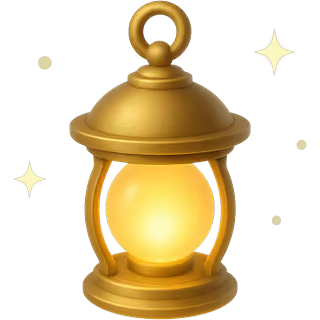
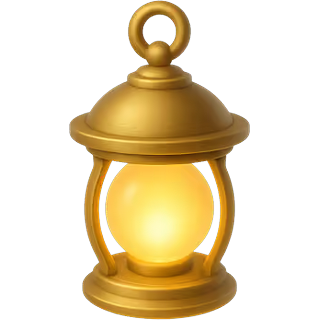
Add the Maaike version with photo cards for local use, and use the new lantern picture.

diff --git a/src/components/Cards.jsx b/src/components/Cards.jsx
@@ -1,5 +1,5 @@
 import { CF_TEXT, ROYAL_TEXT } from '../engine/data.js';
-import { classicCardFile, useCounters, useLook } from '../lib/look.js';
+import { classicCardFile, maaikePhoto, useCounters, useLook } from '../lib/look.js';
 import { centrePicture, cfPicture } from '../lib/cardTypes.js';
 import { PAL, Gem, Crown, AbilityIcon, Mini } from './Art.jsx';
 
@@ -58,17 +58,19 @@ export function JewelCard({ card, onClick, selected, afford, look: forced }) {
   const wild = card.bonus === 'wild';
   const kind = wild ? 'wild' : card.bonus;
   const abil = card.ability;
-  const centre = card.bonus === 'wild' ? '/modern/icons/any-color-gem.png' : centrePicture(card); // the rainbow bug stands in for wild cards
+  const photo = look === 'maaike' ? maaikePhoto(card) : null;
+  const centre = photo ? null : card.bonus === 'wild' ? '/modern/icons/any-color-gem.png' : centrePicture(card); // the rainbow bug stands in for wild cards
   const title = [wild && 'Wild bonus: copies one of your colours', card.ability && AB_LABEL[card.ability]].filter(Boolean).join(' + ');
   return (
     <div
       data-card-id={card.id}
-      className={`card jewel l${card.level} k-${kind} ${selected ? 'sel' : ''} ${afford ? 'afford' : ''}`}
+      className={`card jewel l${card.level} k-${kind} ${photo ? 'photo' : ''} ${selected ? 'sel' : ''} ${afford ? 'afford' : ''}`}
       style={{ '--tint': PAL[kind].glow }}
       onClick={onClick}
       title={title}
     >
-      <div className="art">{centre ? <img src={centre} alt="" draggable={false} className="jewelart" /> : kind !== 'none' && <Gem kind={kind} size={62} />}</div>
+      {photo && <><img src={photo} alt="" draggable={false} className="photofill" /><div className="photoscrim" /></>}
+      <div className="art">{photo ? null : centre ? <img src={centre} alt="" draggable={false} className="jewelart" /> : kind !== 'none' && <Gem kind={kind} size={62} />}</div>
       <div className="ptsrow">
         <div className="pts">{card.pts || ''}</div>
         <div className="crownrow">{Array.from({ length: card.crowns }, (_, i) => <Crown key={i} size={22} />)}</div>

diff --git a/src/components/GameSettings.jsx b/src/components/GameSettings.jsx
@@ -3,7 +3,7 @@ import { Info } from 'lucide-react';
 import { Button } from '@/components/ui/button';
 import { Dialog, DialogContent, DialogDescription, DialogFooter, DialogHeader, DialogTitle } from '@/components/ui/dialog';
 import { Switch } from '@/components/ui/switch';
-import { cardsPref, countersPref, expPref, setLook, useLook } from '../lib/look.js';
+import { MAAIKE_AVAILABLE, cardsPref, countersPref, expPref, setLook, useLook } from '../lib/look.js';
 
 const PREF = { exp: expPref, randomCards: cardsPref };
 
@@ -22,14 +22,16 @@ export default function GameSettings({ onClose, inGame = false, current, locked 
   const rows = [
     { key: 'exp', title: 'Counterfeiters expansion', game: true },
     { key: 'look', title: 'Original look' },
+    ...(MAAIKE_AVAILABLE ? [{ key: 'maaike', title: 'Maaike version' }] : []),
     { key: 'counters', title: 'Card counters' },
   ];
-  const value = (r) => (r.key === 'look' ? classic : r.key === 'counters' ? counters : r.needsModern && noRandom ? false : !!shown[r.key]);
+  const value = (r) => (r.key === 'look' ? classic : r.key === 'maaike' ? look === 'maaike' : r.key === 'counters' ? counters : r.needsModern && noRandom ? false : !!shown[r.key]);
   const noRandom = classic || !!shown.exp; // every card of the expansion and the original look is printed
   const disabled = (r) => (r.game && inGame && locked) || (r.needsModern && noRandom);
   const note = (r) => (r.game && inGame && locked ? 'Fixed for an online game.' : r.needsModern && noRandom ? r.text : r.text);
   const change = (r, on) => {
     if (r.key === 'look') setLook(on ? 'classic' : 'modern');
+    else if (r.key === 'maaike') setLook(on ? 'maaike' : 'modern');
     else if (r.key === 'counters') countersPref.set(on);
     else if (inGame) setPending({ key: r.key, on });
     else PREF[r.key].set(on);

diff --git a/src/lib/look.js b/src/lib/look.js
@@ -8,14 +8,26 @@ import { CLASSIC_FILES } from './classicFiles.js';
 const KEY = 'sd-look';
 const listeners = new Set();
 
-const read = () => { try { return localStorage.getItem(KEY) === 'classic' ? 'classic' : 'modern'; } catch { return 'modern'; } };
+// The Maaike version uses private photos that are only on this computer, so it exists only while developing.
+const LOOKS = import.meta.env?.DEV ? ['classic', 'maaike'] : ['classic'];
+const read = () => { try { const v = localStorage.getItem(KEY); return LOOKS.includes(v) ? v : 'modern'; } catch { return 'modern'; } };
 let look = read();
 const apply = () => { if (typeof document !== 'undefined') document.documentElement.dataset.look = look; };
 apply();
 
 export const getLook = () => look;
+export const MAAIKE_AVAILABLE = !!import.meta.env?.DEV;
+
+const MAAIKE_PHOTOS = 67; // one photo for each of the 67 development cards, in printed order
+const LEVEL_START = [0, 30, 54];
+/** The photo for a development card in the Maaike version, or null when there are not enough photos. */
+export function maaikePhoto(card) {
+  const i = Number(String(card.id).split('-').pop());
+  const n = LEVEL_START[(card.level || 1) - 1] + i;
+  return card.kind === 'jewel' && Number.isInteger(n) && n < MAAIKE_PHOTOS ? `/maaike/cards/${String(n).padStart(2, '0')}.jpg` : null;
+}
 export function setLook(next) {
-  look = next === 'classic' ? 'classic' : 'modern';
+  look = LOOKS.includes(next) ? next : 'modern';
   try { localStorage.setItem(KEY, look); } catch { /* ignore */ }
   apply();
   listeners.forEach((fn) => fn());

diff --git a/src/styles.css b/src/styles.css
@@ -227,3 +227,8 @@ html[data-look=classic] .boardscrolls { gap: calc(var(--cell) * 0.12); }
 .woodbtn.go:hover:not(:disabled) { background: #ecc55a; }
 .woodbtn:active:not(:disabled) { transform: translateY(0); background: #d4bf99; }
 .woodbtn:disabled, html[data-look=classic] .woodbtn:disabled { opacity: 1; background: #cdbd9f; color: #8a7a62; border-color: #9a8466; cursor: default; }
+
+/* Maaike version: a photo fills the card, with a soft shade behind the points and the costs */
+.card.jewel.photo { background: #111; }
+.photofill { position: absolute; inset: 0; width: 100%; height: 100%; object-fit: cover; }
+.photoscrim { position: absolute; inset: 0; background: linear-gradient(180deg, rgba(0, 0, 0, 0.55) 0%, rgba(0, 0, 0, 0) 26%, rgba(0, 0, 0, 0) 52%, rgba(0, 0, 0, 0.72) 100%); }

diff --git a/worker/README.md b/worker/README.md
@@ -29,7 +29,7 @@ To publish a new version, from the project folder with Node 22:
 
 ```
 npx vite build
-# then remove dist/images, which holds box art, before uploading; dist/docs (the rulebook PDFs) is uploaded on purpose
+# then remove dist/images (box art) and dist/maaike (private photos), before uploading; dist/docs (the rulebook PDFs) is uploaded on purpose
 npx wrangler deploy --config worker/wrangler.toml
 ```
 
